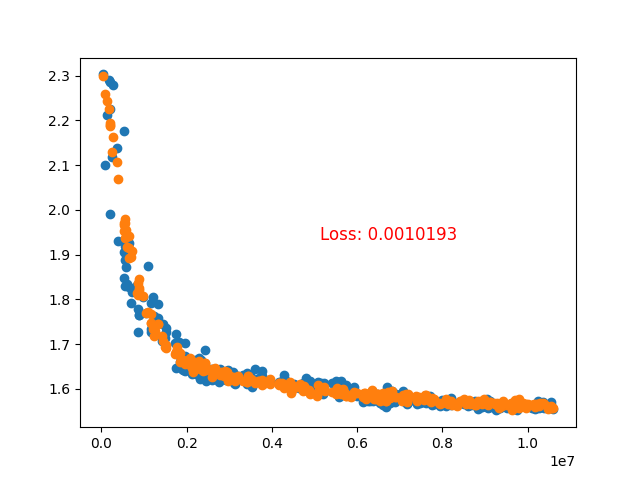
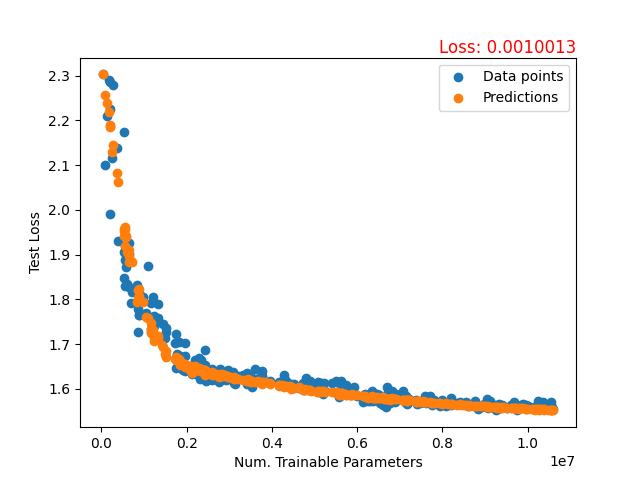
new graphs

diff --git a/cifar10/mother_models/mini.py b/cifar10/mother_models/mini.py
@@ -18,7 +18,7 @@ import matplotlib.pyplot as plt
 random.seed(0)
 
 # LOAD DATA
-with open('../train_epoch=3/train_data.txt', 'r') as f:
+with open('../train_epoch=3/perlin_data.txt', 'r') as f:
     train_data = [json.loads(line) for line in f]
     random.shuffle(train_data)
     train_cut = int(0.8 * len(train_data))
@@ -52,7 +52,7 @@ model = nn.Sequential(
 criterion = nn.MSELoss()
 optimizer = optim.Adam(model.parameters(), lr=1e-3, weight_decay=1e-5)
 device = torch.device('cuda' if torch.cuda.is_available() else 'cpu')
-train(model, train_loader, criterion, optimizer, epochs=100, device=device)
+train(model, train_loader, criterion, optimizer, epochs=150, device=device)
 
 
 # EVALUATE MODEL
@@ -62,9 +62,17 @@ loss = criterion(y_pred, y_test.to(device))
 print(loss.item())
 
 num_trainable = [get_num_trainable(data['densities']) for data in train_data][train_cut:]
-plt.scatter(num_trainable, y_test.detach().cpu().numpy())
-plt.scatter(num_trainable, y_pred.detach().cpu().numpy())
-plt.figtext(0.5, 0.5, f'Loss: {loss.item():.7f}', fontsize=12, color='red')
+plt.scatter(num_trainable, y_test.detach().cpu().numpy(), label='Data points')
+plt.scatter(num_trainable, y_pred.detach().cpu().numpy(), label='Predictions')
+plt.text(
+    1, 1.05, f'Loss: {loss.item():.7f}',
+    transform=plt.gca().transAxes,
+    ha="right", va="top",
+    fontsize=12, color="red"
+)
+plt.legend(loc='upper right')
+plt.xlabel('Num. Trainable Parameters')
+plt.ylabel('Test Loss')
 plt.savefig('mini.png')
 
 

diff --git a/cifar10/mother_models/cnn.py b/cifar10/mother_models/cnn.py
@@ -18,7 +18,7 @@ import matplotlib.pyplot as plt
 random.seed(0)
 
 # LOAD DATA
-with open('../train_epoch=3/train_data.txt', 'r') as f:
+with open('../train_epoch=3/perlin_data.txt', 'r') as f:
     train_data = [json.loads(line) for line in f]
     random.shuffle(train_data)
     train_cut = int(0.8 * len(train_data))
@@ -72,15 +72,24 @@ train(model, train_loader, criterion, optimizer, epochs=50, device=device)
 
 
 # EVALUATE MODEL
-y_pred = model.forward(X_test.to(device))
-loss = criterion(y_pred, y_test.to(device))
+with torch.no_grad():
+    y_pred = model.forward(X_test.to(device))
+    loss = criterion(y_pred, y_test.to(device))
 
 print(loss.item())
 
 num_trainable = [get_num_trainable(data['densities']) for data in train_data][train_cut:]
-plt.scatter(num_trainable, y_test.detach().cpu().numpy())
-plt.scatter(num_trainable, y_pred.detach().cpu().numpy())
-plt.figtext(0.5, 0.5, f'Loss: {loss.item():.7f}', fontsize=12, color='red')
+plt.scatter(num_trainable, y_test.detach().cpu().numpy(), label='Data points')
+plt.scatter(num_trainable, y_pred.detach().cpu().numpy(), label='Predictions')
+plt.text(
+    1, 1.05, f'Loss: {loss.item():.7f}',
+    transform=plt.gca().transAxes,
+    ha="right", va="top",
+    fontsize=12, color="red"
+)
+plt.legend(loc='upper right')
+plt.xlabel('Num. Trainable Parameters')
+plt.ylabel('Test Loss')
 plt.savefig('cnn.png')
 
 

diff --git a/cifar10/mother_models/feed_forward_nn.py b/cifar10/mother_models/feed_forward_nn.py
@@ -18,7 +18,7 @@ import matplotlib.pyplot as plt
 random.seed(0)
 
 # LOAD DATA
-with open('../train_epoch=3/train_data.txt', 'r') as f:
+with open('../train_epoch=3/perlin_data.txt', 'r') as f:
     train_data = [json.loads(line) for line in f]
     random.shuffle(train_data)
     train_cut = int(0.8 * len(train_data))
@@ -63,9 +63,17 @@ loss = criterion(y_pred, y_test.to(device))
 print(loss.item())
 
 num_trainable = [get_num_trainable(data['densities']) for data in train_data][train_cut:]
-plt.scatter(num_trainable, y_test.detach().cpu().numpy())
-plt.scatter(num_trainable, y_pred.detach().cpu().numpy())
-plt.figtext(0.5, 0.5, f'Loss: {loss.item():.7f}', fontsize=12, color='red')
+plt.scatter(num_trainable, y_test.detach().cpu().numpy(), label='Data points')
+plt.scatter(num_trainable, y_pred.detach().cpu().numpy(), label='Predictions')
+plt.text(
+    1, 1.05, f'Loss: {loss.item():.7f}',
+    transform=plt.gca().transAxes,
+    ha="right", va="top",
+    fontsize=12, color="red"
+)
+plt.legend(loc='upper right')
+plt.xlabel('Num. Trainable Parameters')
+plt.ylabel('Test Loss')
 plt.savefig('feed_forward.png')
 
 

diff --git a/cifar10/mother_models/decision_tree.py b/cifar10/mother_models/decision_tree.py
@@ -10,7 +10,7 @@ from cifar10.util import get_num_trainable
 
 random.seed(0)
 
-with open('../train_epoch=3/train_data.txt', 'r') as f:
+with open('../train_epoch=3/perlin_data.txt', 'r') as f:
     train_data = [json.loads(line) for line in f]
     random.shuffle(train_data)
     train_cut = int(0.8 * len(train_data))
@@ -32,7 +32,15 @@ mse = mean_squared_error(y_test, y_pred)
 print(mse)
 
 num_trainable = [get_num_trainable(data['densities']) for data in train_data][train_cut:]
-plt.scatter(num_trainable, y_test)
-plt.scatter(num_trainable, y_pred)
-plt.figtext(0.5, 0.5, f'Loss: {mse:.7f}', fontsize=12, color='red')
+plt.scatter(num_trainable, y_test, label='Data points')
+plt.scatter(num_trainable, y_pred, label='Predictions')
+plt.text(
+    1, 1.05, f'Loss: {mse:.7f}',
+    transform=plt.gca().transAxes,
+    ha="right", va="top",
+    fontsize=12, color="red"
+)
+plt.legend(loc='upper right')
+plt.xlabel('Num. Trainable Parameters')
+plt.ylabel('Test Loss')
 plt.savefig('decision_tree.png')

diff --git a/cifar10/generate_graphs.py b/cifar10/generate_graphs.py
@@ -33,6 +33,7 @@ def generate_graphs(
 
     plt.xlabel('Num. Trainable Parameters')
     plt.ylabel('Test Loss')
+    plt.legend(loc='upper right')
     # plt.xscale('log')
     plt.savefig(graph_file)
 
@@ -40,7 +41,7 @@ def generate_graphs(
 if __name__ == '__main__':
     generate_graphs(
         data_files=['./train_epoch=3/perlin_data.txt', './train_epoch=3/train_data.txt'],
-        labels=['sparse_perlin', 'sparse random'],
+        labels=['Sparse perlin', 'Sparse random'],
         graph_file='graph.png',
     )
 
